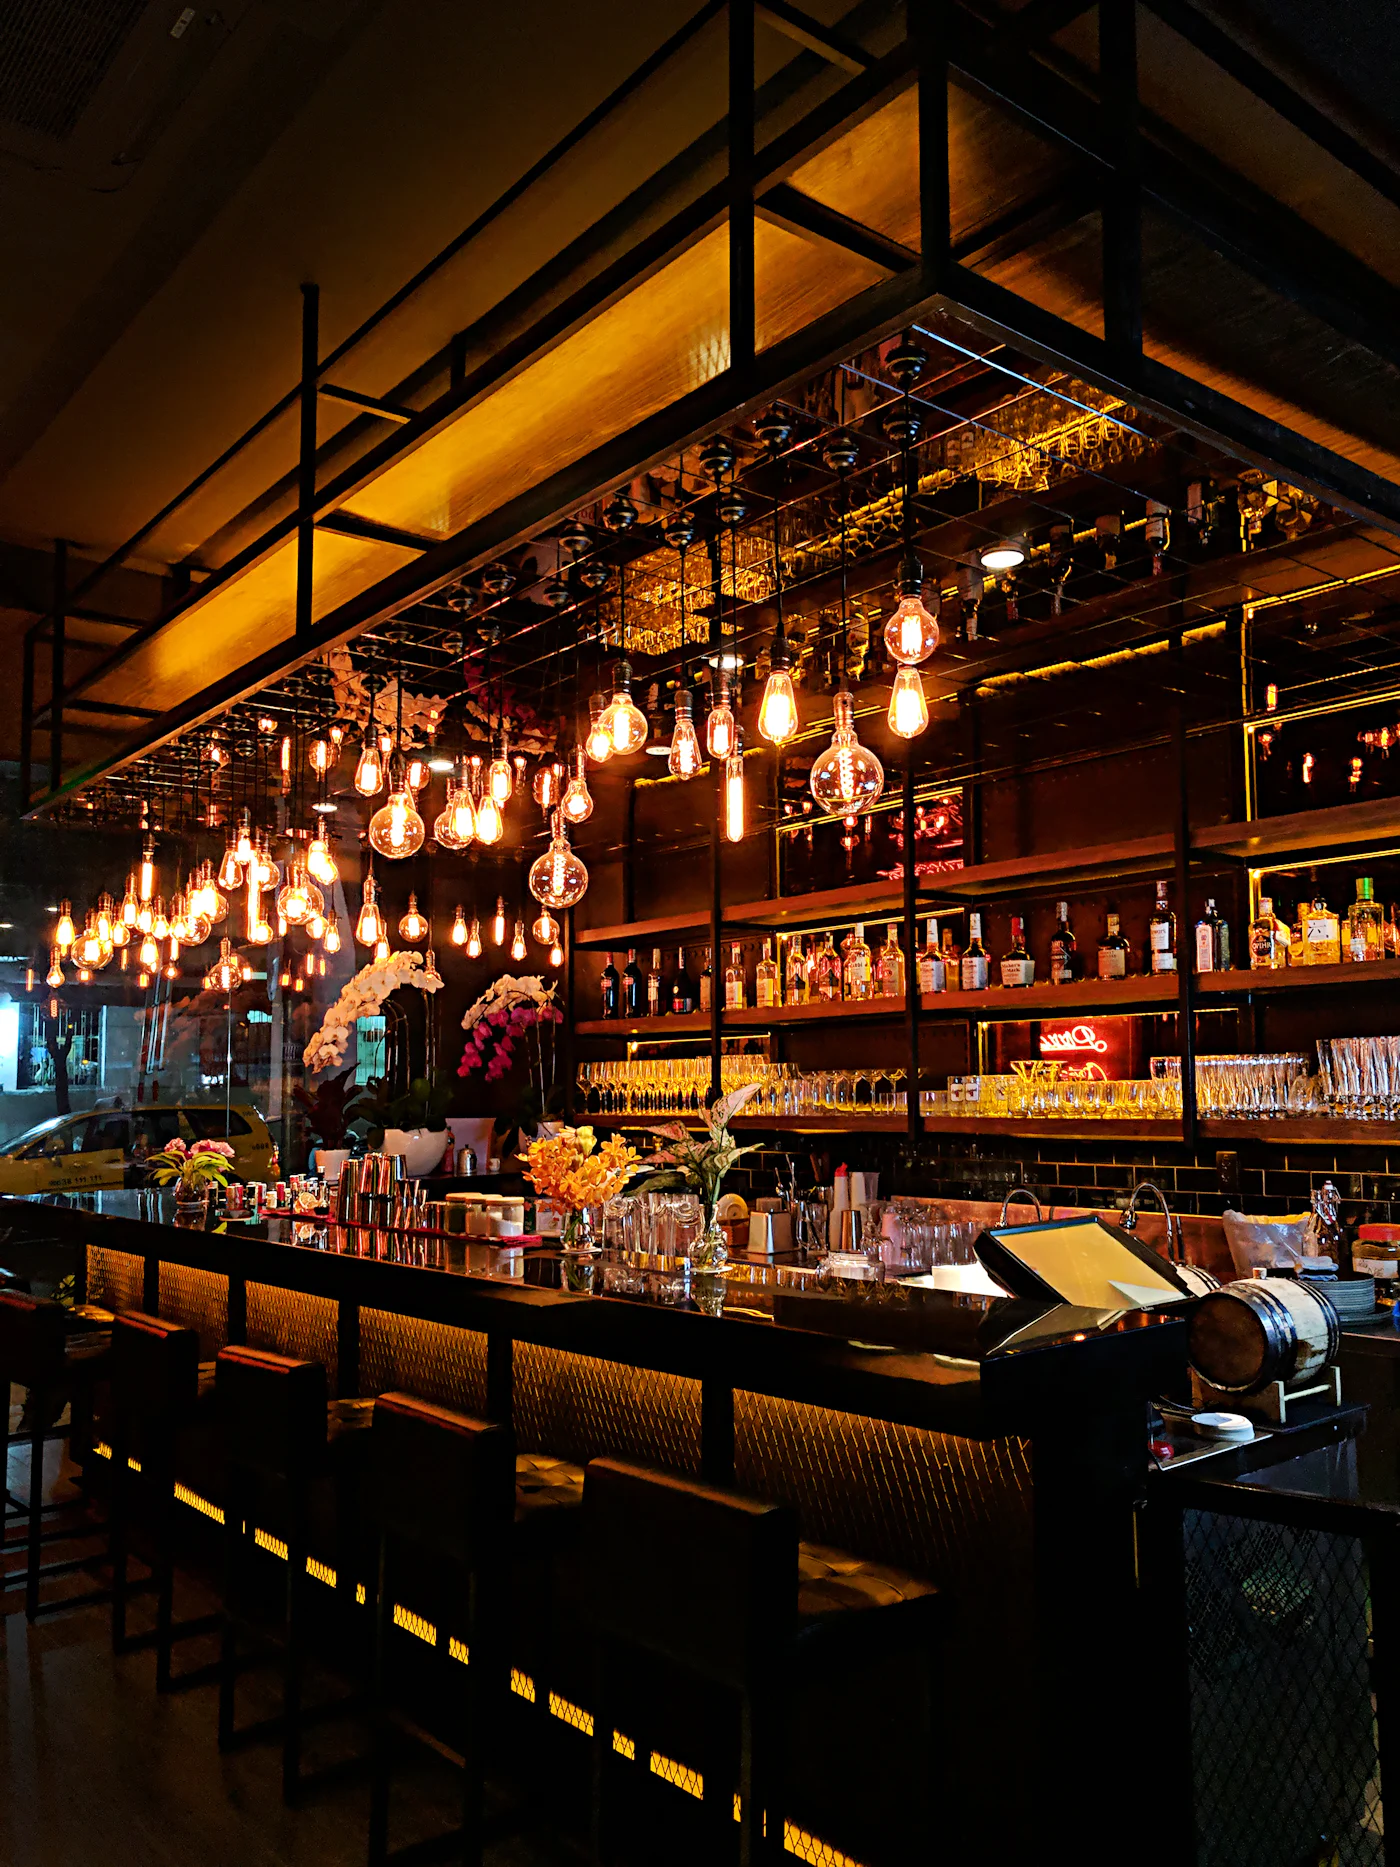
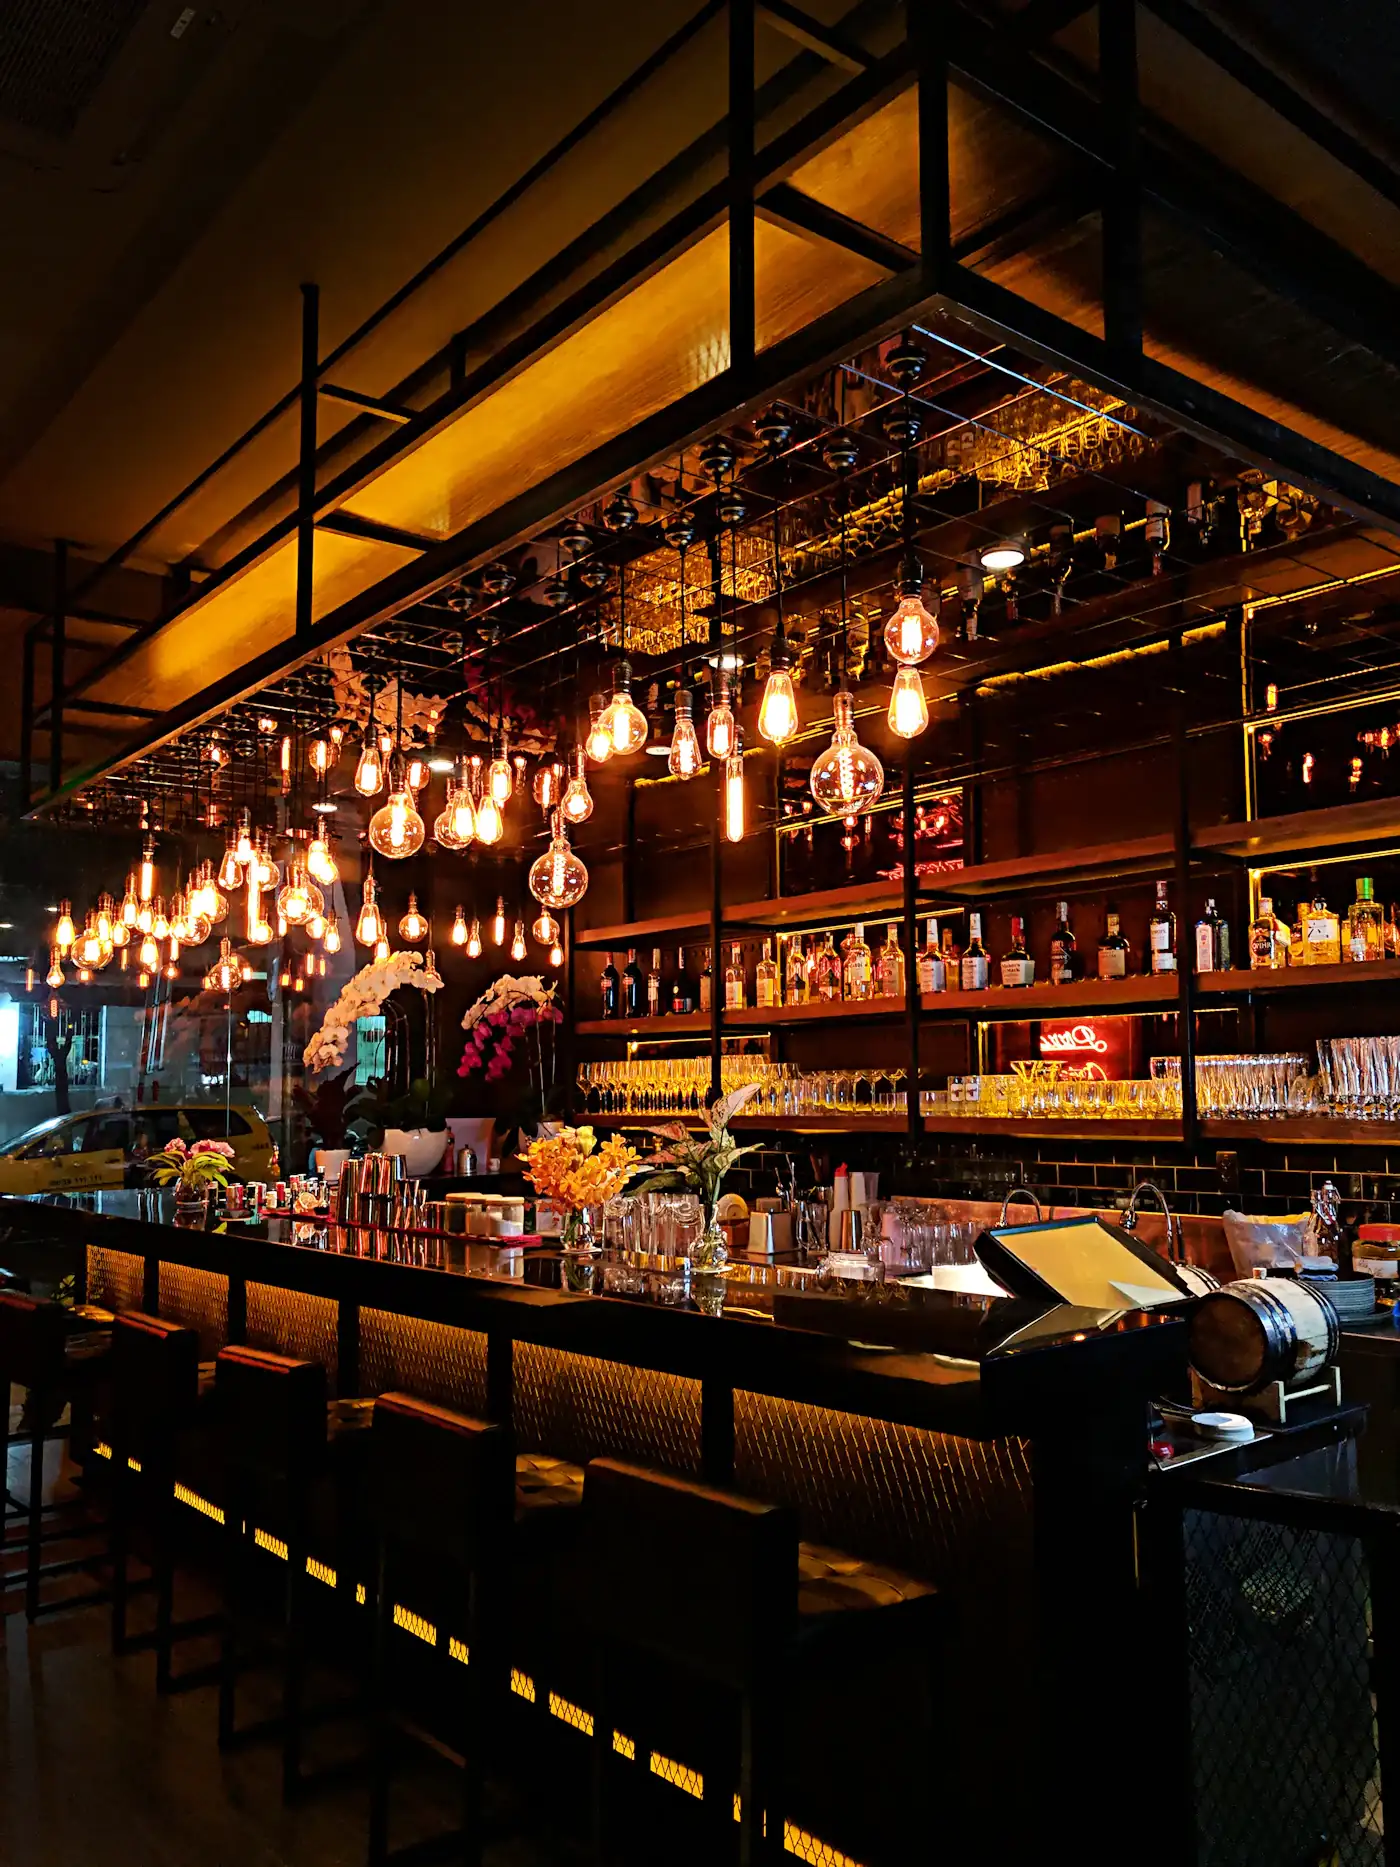
Kávézó demo: full-bleed day-to-night hero with a sun arc dial
The time dial is now a sun that travels an arc over a full-screen photo that
crossfades into the evening bar; headline lines rise in, the menu restaggers
on a change of daypart, sections reveal on scroll, richer hovers. Reduced
motion keeps everything static. Hero photos re-encoded (590/506 -> 231/236 kB).

diff --git a/kavezo/src/style.css b/kavezo/src/style.css
@@ -49,27 +49,69 @@ button, input { font: inherit; color: inherit; }
 .dot.on { background: #3f9a5a; box-shadow: 0 0 0 4px rgb(63 154 90 / 0.18); }
 @media (min-width: 900px) { .top nav { display: flex; } .status { margin-left: 16px; } }
 
-/* Hero: két fotó egymáson, a csúszka szerint úszik át az esti */
-.hero { display: grid; gap: 24px; padding: 20px var(--gutter) 0; }
-.hero h1 { font-size: clamp(3.2rem, 11vw, 7.5rem); letter-spacing: -0.02em; }
-.hero h1 em { font-weight: 400; color: var(--accent); }
-.lead { margin-top: 18px; max-width: 40ch; font-size: 1.15rem; color: var(--muted); }
-.hero-photos { position: relative; aspect-ratio: 4 / 3; border-radius: 22px; overflow: hidden; }
-.hero-photos img { position: absolute; inset: 0; width: 100%; height: 100%; object-fit: cover; }
+/* Hero: teljes szélességű fotó, ami a nap állása szerint úszik át estébe. A szöveg mindig a fotón ül,
+   ezért saját, fix világos színt kap; a sötétítés este erősödik. */
+.hero { position: relative; isolation: isolate; display: grid; align-content: end; gap: clamp(20px, 3vw, 36px);
+  min-height: clamp(640px, calc(100svh - 110px), 940px); padding: clamp(96px, 14vh, 160px) var(--gutter) var(--gutter); color: #fbf4ea; overflow: hidden; }
+.hero-photos { position: absolute; inset: 0; z-index: -1; }
+.hero-photos img { position: absolute; inset: 0; width: 100%; height: 100%; object-fit: cover; animation: drift 24s ease-out both; }
 .hero-photos .night { opacity: var(--n); }
-.dial { grid-column: 1 / -1; position: relative; padding: 18px 18px 14px; border-radius: 20px; background: var(--soft); }
-.dial-label { display: flex; align-items: baseline; gap: 12px; font-weight: 600; padding-right: 84px; }
-.dial-label output { font: 700 2rem var(--display); color: var(--accent); }
-.dial input { width: 100%; margin: 12px 0 4px; height: 44px; background: none; -webkit-appearance: none; appearance: none; cursor: pointer; }
-.dial input::-webkit-slider-runnable-track { height: 10px; border-radius: 999px; background: linear-gradient(90deg, #f3c66b, #e98d5a 50%, #8e2a3d 72%, #2d2240); }
-.dial input::-moz-range-track { height: 10px; border-radius: 999px; background: linear-gradient(90deg, #f3c66b, #e98d5a 50%, #8e2a3d 72%, #2d2240); }
-.dial input::-webkit-slider-thumb { -webkit-appearance: none; margin-top: -13px; width: 36px; height: 36px; border-radius: 50%; background: radial-gradient(circle at 35% 35%, #fff7dd, #f3c66b 60%); border: 3px solid var(--ink); box-shadow: 0 4px 12px rgb(0 0 0 / 0.25); }
-.dial input::-moz-range-thumb { width: 30px; height: 30px; border-radius: 50%; background: radial-gradient(circle at 35% 35%, #fff7dd, #f3c66b 60%); border: 3px solid var(--ink); }
-.dial-marks { display: flex; justify-content: space-between; padding: 0; margin: 0; list-style: none; font-size: 0.8rem; color: var(--muted); }
-.now { position: absolute; top: 14px; right: 14px; min-height: 40px; padding: 0 16px; border-radius: 999px; border: 1px solid var(--ink); background: none; font-weight: 600; cursor: pointer; }
+/* A nappali fotó világos, ezért a szöveg oldalán (bal és lent) mindig van árnyék; mobilon a szöveg az egész képen fut, ott erősebb. */
+.hero-photos::after { content: ''; position: absolute; inset: 0;
+  background:
+    linear-gradient(90deg, rgb(24 14 8 / 0.62) 0%, rgb(24 14 8 / 0.25) 48%, transparent 70%),
+    linear-gradient(180deg, rgb(20 12 8 / calc(0.2 + var(--n) * 0.2)) 0%, rgb(20 12 8 / 0.1) 35%, rgb(18 12 20 / calc(0.72 + var(--n) * 0.15)) 100%); }
+@media (max-width: 899px) { .hero-photos::after { background: linear-gradient(180deg, rgb(20 12 8 / 0.35) 0%, rgb(20 12 8 / 0.55) 40%, rgb(18 12 20 / 0.85) 100%); } }
+@keyframes drift { from { transform: scale(1.12); } to { transform: scale(1); } }
+.hero h1 { font-size: clamp(3.6rem, 16vw, 10.5rem); letter-spacing: -0.03em; line-height: 0.9; }
+.hero .line { display: block; overflow: hidden; padding-bottom: 0.06em; }
+.hero .line > span { display: block; animation: rise 1.1s cubic-bezier(0.2, 0.75, 0, 1) both; }
+.hero .l2 > span { animation-delay: 0.14s; }
+/* Nappal a kávé sor erős, este a bor sor veszi át a fényt. */
+.hero .l1 { opacity: calc(1 - var(--n) * 0.55); }
+.hero h1 em { font-weight: 400; color: color-mix(in oklab, #f6d58f, #f2a7b4 var(--mix)); opacity: calc(0.55 + var(--n) * 0.45); }
+@keyframes rise { from { transform: translateY(105%); } to { transform: none; } }
+.lead { margin-top: 20px; max-width: 42ch; font-size: clamp(1.05rem, 1.4vw, 1.2rem); color: rgb(251 244 234 / 0.86); animation: fade 1s 0.45s both; }
+@keyframes fade { from { opacity: 0; transform: translateY(12px); } }
+
+/* A tárcsa: üveglap a fotón, rajta a nap íve. A valódi range-input az ív alatt marad, láthatatlanul az egész sávot fedi. */
+.dial { position: relative; padding: 16px clamp(16px, 2.4vw, 28px) 14px; border-radius: 24px; color: #fbf4ea;
+  background: rgb(28 18 14 / 0.38); border: 1px solid rgb(255 255 255 / 0.18); backdrop-filter: blur(14px) saturate(1.2); animation: fade 1s 0.65s both; }
+.dial-head { display: flex; align-items: center; gap: 14px; flex-wrap: wrap; }
+.dial-label { display: flex; align-items: baseline; gap: 12px; font-weight: 600; }
+.dial-label output { font: 700 clamp(1.8rem, 3vw, 2.4rem) var(--display); color: #f6d58f; font-variant-numeric: tabular-nums; min-width: 3.2ch; }
+.dial-mode { font: italic 400 1.25rem var(--display); color: rgb(251 244 234 / 0.8); }
+.now { margin-left: auto; min-height: 44px; padding: 0 18px; border-radius: 999px; border: 1px solid rgb(255 255 255 / 0.5); background: rgb(255 255 255 / 0.08); color: inherit; font-weight: 600; cursor: pointer; transition: background 0.2s, color 0.2s; }
+.now:hover { background: #fbf4ea; color: #2a1d16; }
+.sky { position: relative; height: clamp(84px, 11vw, 132px); margin-top: 6px; }
+.arc { position: absolute; inset: 0; width: 100%; height: 100%; overflow: visible; }
+.arc path { fill: none; stroke: rgb(251 244 234 / 0.45); stroke-width: 1.5; stroke-dasharray: 3 7; vector-effect: non-scaling-stroke; }
+.sun { position: absolute; width: 34px; height: 34px; margin: -17px 0 0 -17px; border-radius: 50%; pointer-events: none;
+  background: radial-gradient(circle at 38% 36%, #fffbe9, color-mix(in oklab, #f6c453, #dfe3f2 var(--mix)) 62%);
+  box-shadow: 0 0 0 7px color-mix(in oklab, rgb(246 196 83 / 0.28), rgb(223 227 242 / 0.14) var(--mix)), 0 0 46px 12px color-mix(in oklab, rgb(246 196 83 / 0.55), rgb(200 210 255 / 0.25) var(--mix));
+  transition: left 0.18s ease-out, top 0.18s ease-out; }
+/* A hold sarlója: este egy sötét korong csúszik a napra. */
+.sun::after { content: ''; position: absolute; inset: 0; border-radius: 50%; background: rgb(36 26 44); transform: translate(calc(70% - var(--n) * 38%), calc(-30% + var(--n) * 12%)); opacity: var(--n); }
+.sky input { position: absolute; inset: 0; width: 100%; height: 100%; margin: 0; opacity: 0; cursor: grab; }
+.sky input:active { cursor: grabbing; }
+.sky:has(input:focus-visible) .sun { outline: 3px solid #fbf4ea; outline-offset: 5px; }
+.dial-marks { display: flex; justify-content: space-between; padding: 0; margin: 4px 0 0; list-style: none; font-size: 0.8rem; color: rgb(251 244 234 / 0.72); font-variant-numeric: tabular-nums; }
 @media (min-width: 900px) {
-  .hero { grid-template-columns: 1fr 1.1fr; align-items: center; padding-top: 40px; }
-  .dial { margin-top: 8px; }
+  .hero { grid-template-columns: 1.15fr 1fr; align-items: end; }
+  .dial { align-self: end; }
+}
+
+/* Kínálat: napszakváltáskor a tételek sorban beúsznak */
+.menu-list li { animation: fade 0.5s calc(var(--i, 0) * 70ms) both; }
+
+/* Görgetésre beúszó szakaszok */
+.reveal { opacity: 0; transform: translateY(28px); transition: opacity 0.8s ease, transform 0.8s cubic-bezier(0.2, 0.75, 0, 1); }
+.reveal.in { opacity: 1; transform: none; }
+
+@media (prefers-reduced-motion: reduce) {
+  .hero-photos img, .hero .line > span, .lead, .dial, .menu-list li { animation: none; }
+  .sun { transition: none; }
+  .reveal { opacity: 1; transform: none; transition: none; }
 }
 
 /* Kínálat a választott napszakra */
@@ -81,7 +123,18 @@ button, input { font: inherit; color: inherit; }
 .menu-list li { display: flex; justify-content: space-between; align-items: baseline; gap: 16px; padding: 16px 0; border-bottom: 1px solid color-mix(in oklab, var(--ink) 18%, transparent); }
 .dish { font: 700 1.35rem/1.2 var(--display); }
 .dish small { display: block; margin-top: 4px; font: 400 0.95rem var(--body); color: var(--muted); }
-.menu-list b { font-variant-numeric: tabular-nums; white-space: nowrap; }
+.menu-list b { font-variant-numeric: tabular-nums; white-space: nowrap; transition: color 0.25s; }
+/* Hover: a sor alatt végigfut egy vonal (mint amikor a pultos végighúzza a krétát), az ár átszíneződik. */
+.menu-list li { position: relative; }
+.menu-list li::after { content: ''; position: absolute; left: 0; right: 0; bottom: -1px; height: 2px; background: var(--accent); transform: scaleX(0); transform-origin: left; transition: transform 0.45s cubic-bezier(0.2, 0.75, 0, 1); }
+.menu-list li:hover::after { transform: scaleX(1); }
+.menu-list li:hover b { color: var(--accent); }
+.strip { overflow: hidden; }
+.strip img { transition: transform 0.7s cubic-bezier(0.2, 0.75, 0, 1), filter 0.7s; filter: saturate(0.85); }
+.strip img:hover { transform: scale(1.05); filter: saturate(1.1); }
+.ticket { transition: transform 0.25s, border-color 0.25s; }
+.ticket:not(.is-full):hover { transform: translateY(-3px) rotate(-0.4deg); }
+@media (prefers-reduced-motion: reduce) { .menu-list li::after, .strip img, .ticket { transition: none; } .ticket:not(.is-full):hover { transform: none; } }
 @media (min-width: 900px) { .menu { grid-template-columns: 0.8fr 1.2fr; align-items: start; } .menu .small { grid-column: 2; } }
 
 .beans { display: grid; gap: 24px; padding: 0 var(--gutter) clamp(48px, 7vw, 96px); align-items: center; }

diff --git a/kavezo/index.html b/kavezo/index.html
@@ -30,20 +30,29 @@
 
     <main>
       <section class="hero" aria-labelledby="hero-title">
-        <div class="hero-text">
-          <h1 id="hero-title">Nappal kávé,<br /><em>este bor.</em></h1>
-          <p class="lead">Szemben a piaccal: reggel hétkor nyitunk espressóval, este a pult mögül pohárra mért bort töltünk. Húzza el a csúszkát, és megmutatjuk, mi van akkor nálunk.</p>
-        </div>
         <div class="hero-photos" aria-hidden="true">
           <img class="day" src="./src/assets/nappal.webp" alt="" width="1400" height="933" fetchpriority="high" />
           <img class="night" src="./src/assets/este.webp" alt="" width="1400" height="933" />
         </div>
+        <div class="hero-text">
+          <h1 id="hero-title"><span class="line l1"><span>Nappal kávé,</span></span><span class="line l2"><span><em>este bor.</em></span></span></h1>
+          <p class="lead">Szemben a piaccal: reggel hétkor nyitunk espressóval, este a pult mögül pohárra mért bort töltünk. Húzza a napot, és megmutatjuk, mi van akkor nálunk.</p>
+        </div>
 
         <div class="dial" id="most-dial">
-          <label for="time" class="dial-label">Mikor jönne? <output id="time-out" for="time"></output></label>
-          <input type="range" id="time" min="420" max="1439" step="15" value="600" aria-describedby="mode-line" />
+          <div class="dial-head">
+            <label for="time" class="dial-label">Mikor jönne? <output id="time-out" for="time"></output></label>
+            <span class="dial-mode" id="dial-mode" aria-hidden="true"></span>
+            <button type="button" class="now" id="now">Most</button>
+          </div>
+          <div class="sky">
+            <svg class="arc" viewBox="0 0 1000 150" preserveAspectRatio="none" aria-hidden="true">
+              <path id="arc-path" d="M 12 146 C 260 -40, 740 -40, 988 146" />
+            </svg>
+            <span class="sun" id="sun" aria-hidden="true"></span>
+            <input type="range" id="time" min="420" max="1439" step="15" value="600" aria-describedby="mode-line" />
+          </div>
           <ol class="dial-marks" aria-hidden="true"><li>7:00</li><li>11:00</li><li>17:00</li><li>19:00</li><li>24:00</li></ol>
-          <button type="button" class="now" id="now">Most</button>
         </div>
       </section>
 

diff --git a/kavezo/src/main.js b/kavezo/src/main.js
@@ -27,15 +27,25 @@ $('status').innerHTML = st.open
 
 // A napszak-csúszka: az egész oldal színe és a kínálat követi
 const range = $('time')
+// A nap (este a hold) a hero ívén halad: a csúszka értékét az SVG-útvonal egy pontjára vetítjük.
+const arc = $('arc-path')
+const arcLen = arc.getTotalLength()
+let shownMode = null
 function paint() {
   const min = Number(range.value)
   const m = modeAt(min)
   document.documentElement.style.setProperty('--n', nightness(min).toFixed(3))
+  const p = arc.getPointAtLength(((min - 420) / (1439 - 420)) * arcLen)
+  $('sun').style.cssText = `left:${p.x / 10}%;top:${(p.y / 150) * 100}%`
   $('time-out').textContent = clock(min)
+  $('dial-mode').textContent = m.name
   range.setAttribute('aria-valuetext', `${clock(min)}, ${m.name.toLowerCase()}`)
+  if (m === shownMode) return
+  // Csak napszakváltáskor rajzoljuk újra a kínálatot, akkor sorban beúsznak a tételek.
+  shownMode = m
   $('mode-name').textContent = m.name
   $('mode-line').textContent = m.line
-  $('menu-list').innerHTML = MENU[m.id].map(([name, price, note]) => `<li><span class="dish">${name}<small>${note}</small></span><b>${ft(price)}</b></li>`).join('')
+  $('menu-list').innerHTML = MENU[m.id].map(([name, price, note], i) => `<li style="--i:${i}"><span class="dish">${name}<small>${note}</small></span><b>${ft(price)}</b></li>`).join('')
 }
 range.addEventListener('input', paint)
 const snapNow = () => String(Math.min(1439, Math.max(420, Math.round(nowMin / 15) * 15)))
@@ -98,6 +108,12 @@ $('book').addEventListener('submit', (e) => {
   $('sent').showModal()
   $('sent-title').focus()
 })
+
+// Görgetésre beúszó szakaszok (mozgáscsökkentésnél a CSS eleve láthatónak hagyja őket)
+const reveal = new IntersectionObserver((entries) => entries.forEach((e) => {
+  if (e.isIntersecting) { e.target.classList.add('in'); reveal.unobserve(e.target) }
+}), { rootMargin: '0px 0px -12% 0px' })
+document.querySelectorAll('main > section:not(.hero)').forEach((s) => { s.classList.add('reveal'); reveal.observe(s) })
 
 // Nyitvatartás, a mai nap kiemelve
 const order = [1, 2, 3, 4, 5, 6, 0]
